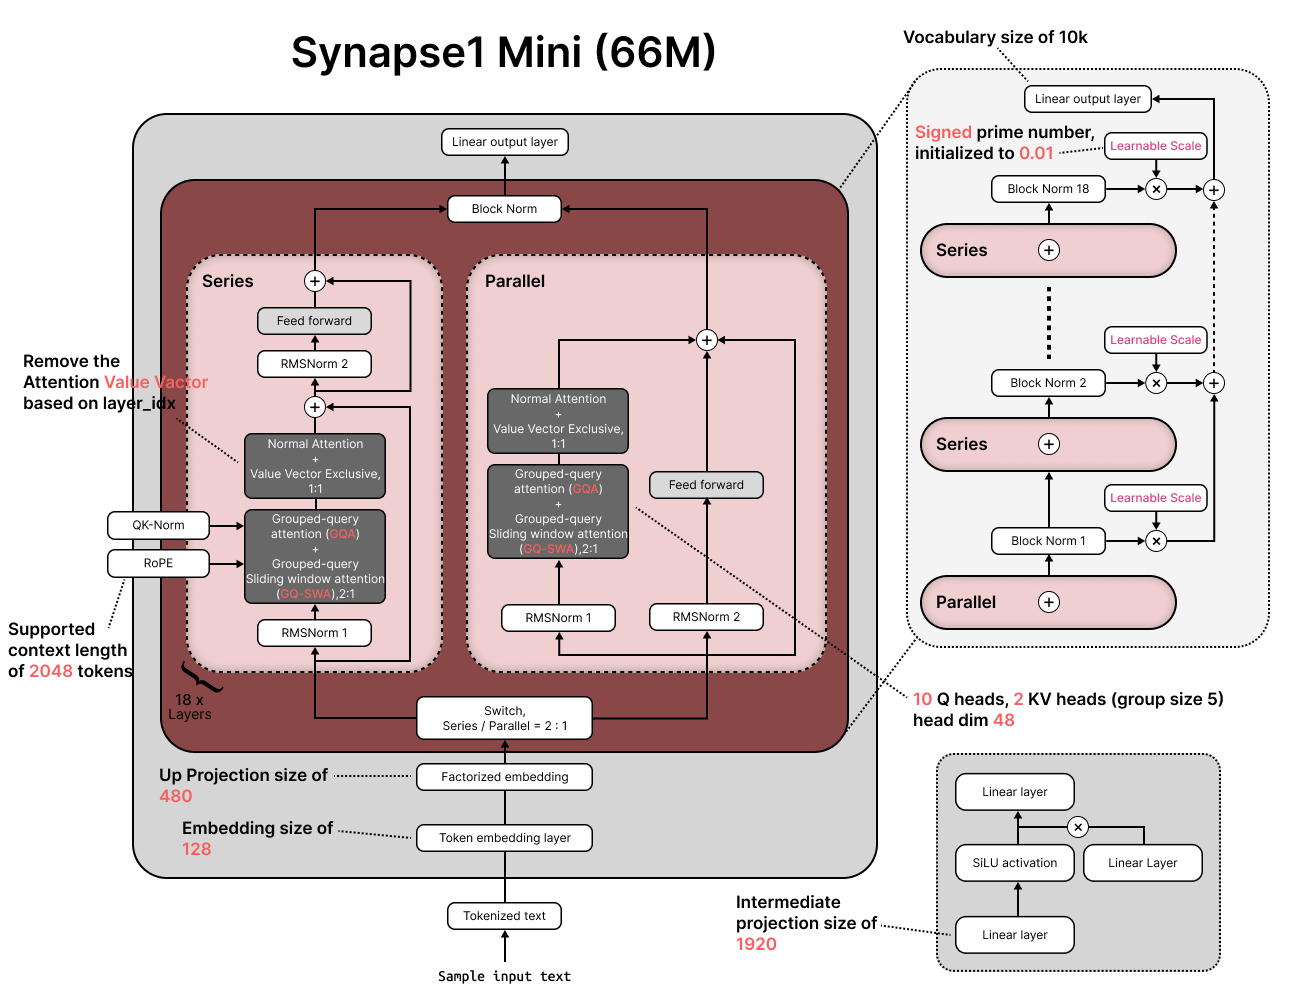
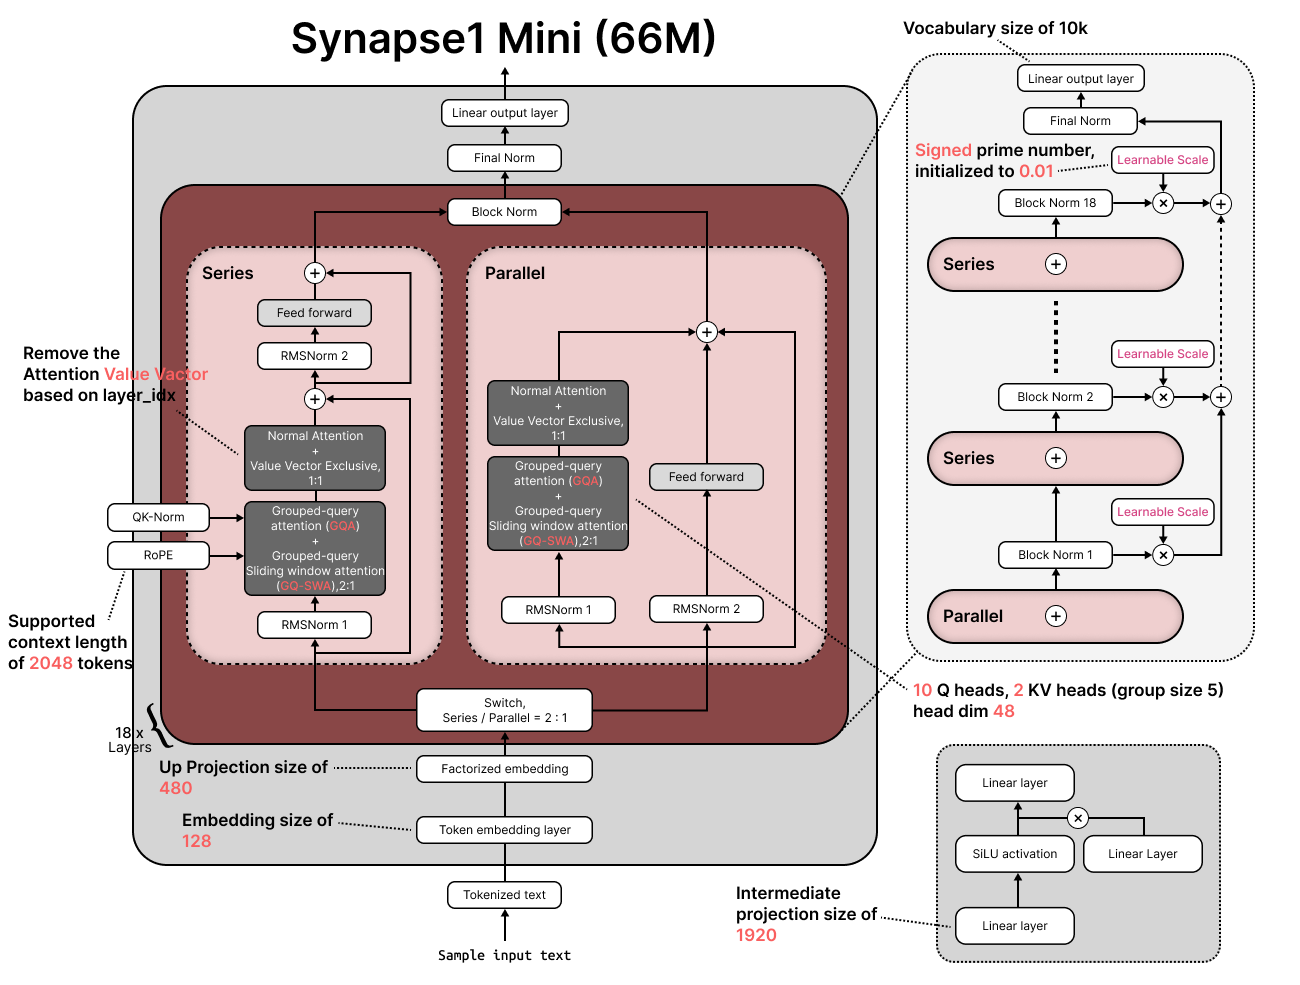
다이어그램 수정 및 README 개선

diff --git a/README.md b/README.md
@@ -4,6 +4,7 @@
 제작 기간 동안 컴퓨터에만 쌓이고 있는 파일들을 보니 언젠간 Github에 업로드 `하자 하자` 하다, 지금에서 업로드합니다.
 아직 모델 파일을 업로드 하지 않았지만, Synapse1 Mini의 아키텍처 다이어그램을 먼저 업로드 합니다. <sub>추후 천천히 이것 저것 업로드 할 것 같습니다.</sub>
 
-<img width="1300" height="1000" alt="Image" src="https://github.com/user-attachments/assets/e6a68e46-f9de-4bef-8e06-203332146f5e" />
+<!-- <img width="1300" height="1000" alt="Image" src="https://github.com/user-attachments/assets/e6a68e46-f9de-4bef-8e06-203332146f5e" /> -->
+![Synapse1-Mini Architecture Diagram](synapse1-mini.png)
 <sub>본 아키텍처 다이어그램은 Sebastian Raschka의 LLM Architecture Gallery의 시각적 표현 방법을 참고하여 Synapse1 프로젝트를 위해 새롭게 제작되었습니다. 원본 이미지를 복제한 것이 아닙니다.
 Reference: [Sebastian Rsachka](https://sebastianraschka.com), [LLM Architecture Gallery](https://sebastianraschka.com/llm-architecture-gallery)</sub>
